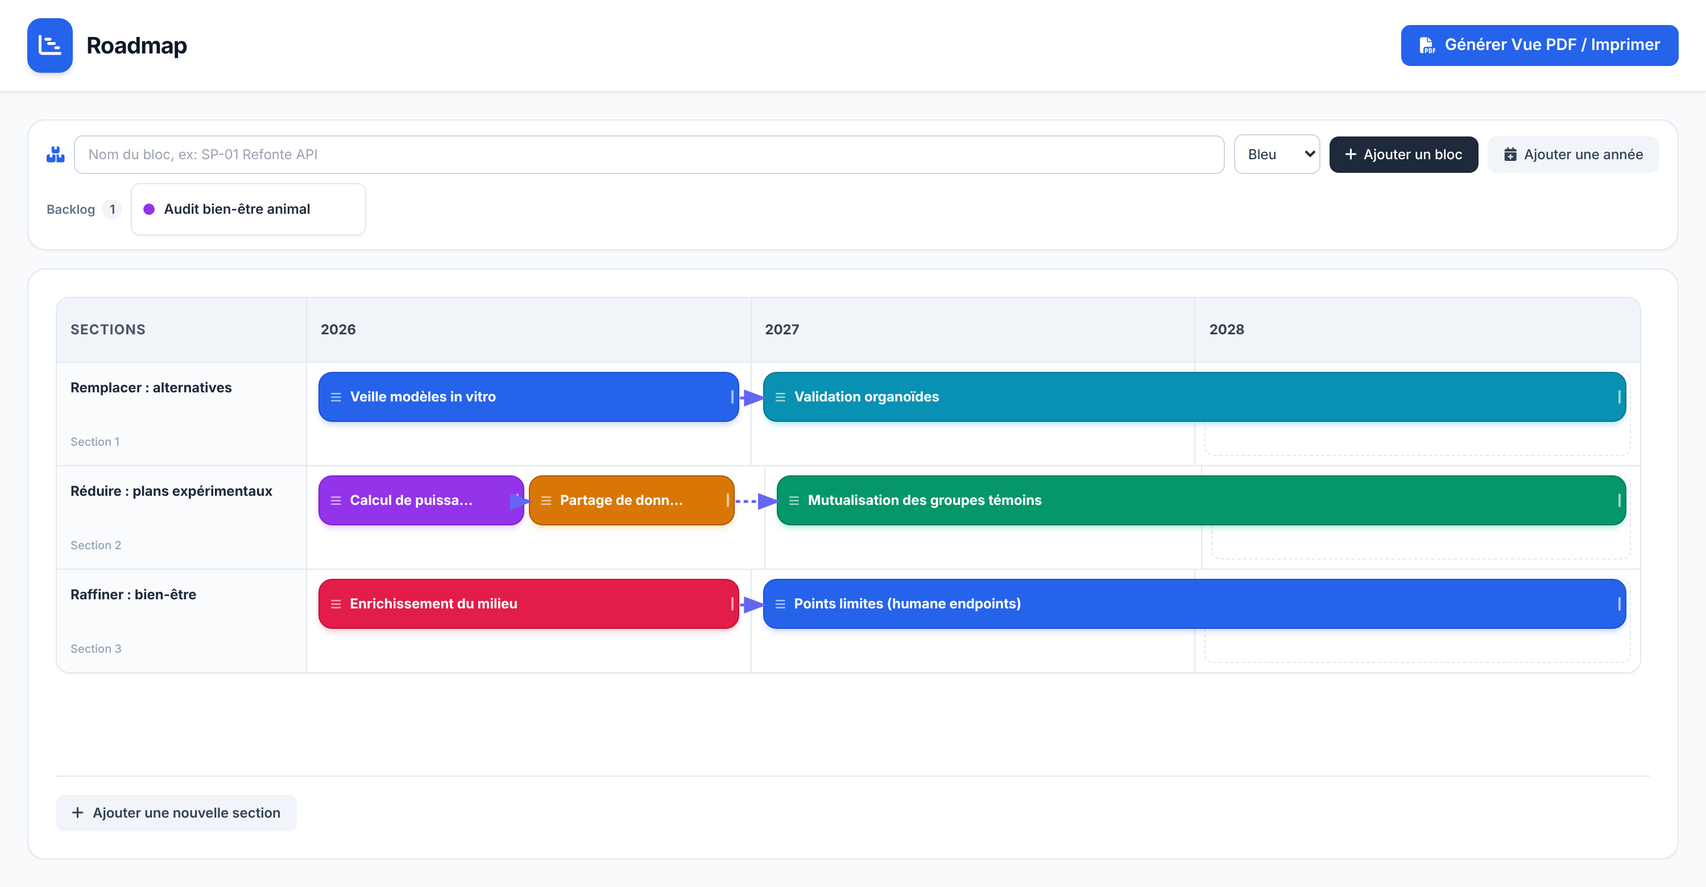
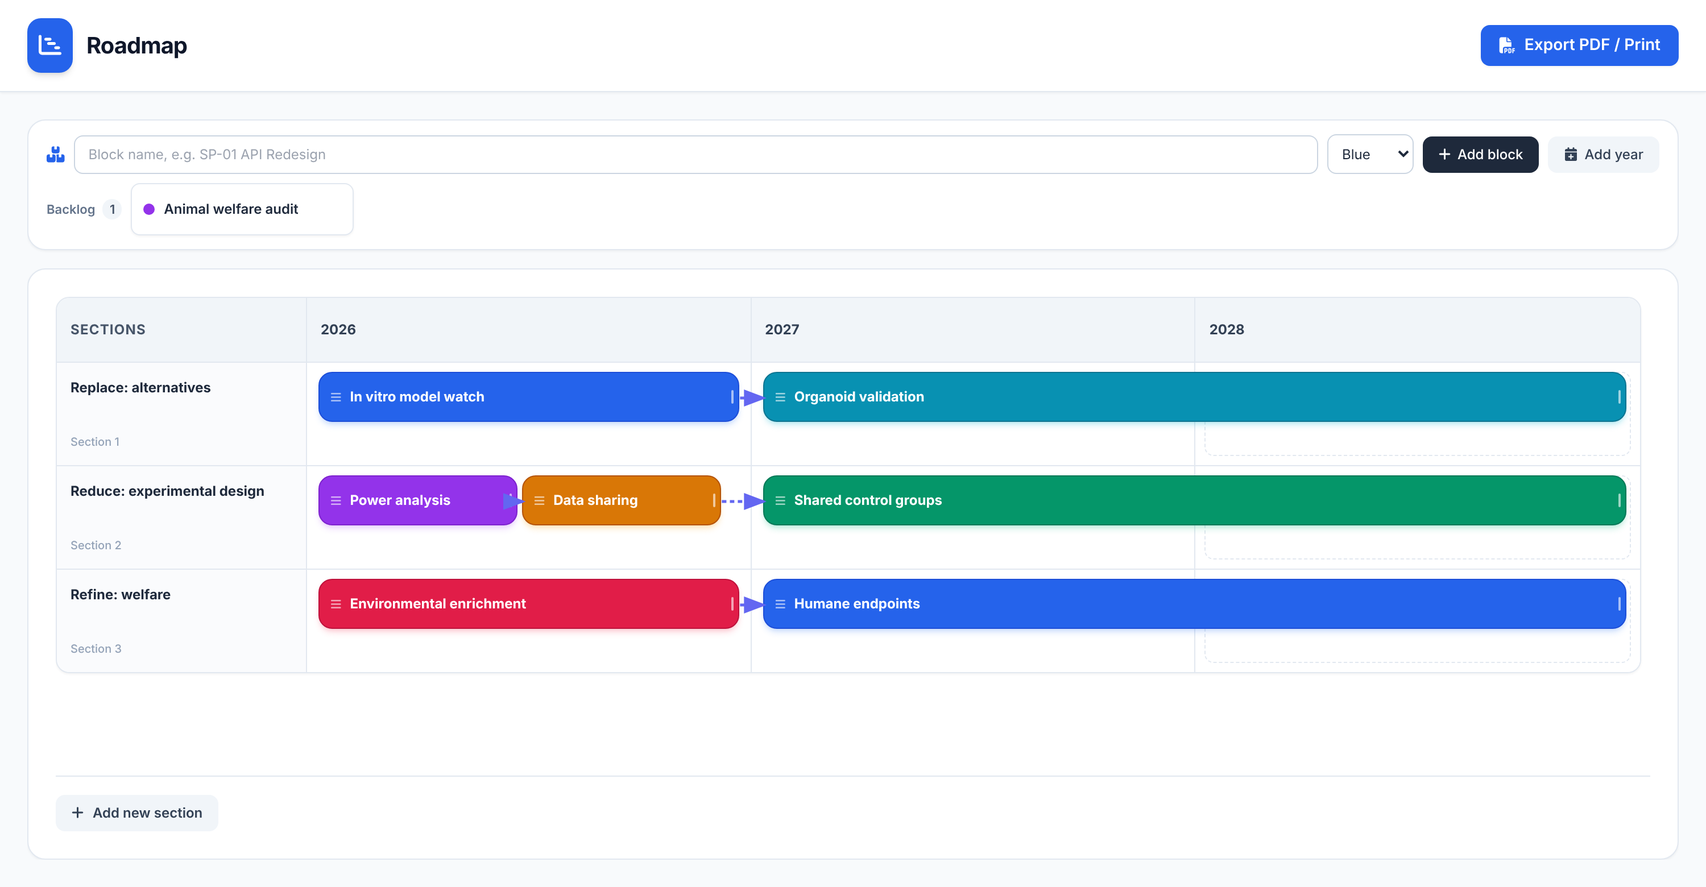
Translate UI, README and screenshot to English
Claude-Session: https://claude.ai/code/session_01T9Qhdv6o8uipiHCkkjMUxb

diff --git a/index.html b/index.html
@@ -1,9 +1,9 @@
 <!DOCTYPE html>
-<html lang="fr" class="h-full">
+<html lang="en" class="h-full">
 <head>
     <meta charset="UTF-8">
     <meta name="viewport" content="width=device-width, initial-scale=1.0">
-    <title>Roadmap - Gantt Simplifié</title>
+    <title>Roadmap - Simplified Gantt</title>
     <script src="https://cdn.tailwindcss.com"></script>
     <link href="https://fonts.googleapis.com/css2?family=Inter:wght@300;400;500;600;700&display=swap" rel="stylesheet">
     <link rel="stylesheet" href="https://cdnjs.cloudflare.com/ajax/libs/font-awesome/6.4.0/css/all.min.css">
@@ -95,7 +95,7 @@
         <div class="flex items-center space-x-3">
             <button onclick="triggerPrint()" class="px-4 py-2 bg-blue-600 hover:bg-blue-700 text-white text-sm font-semibold rounded-lg shadow-sm transition flex items-center space-x-2">
                 <i class="fa-solid fa-file-pdf"></i>
-                <span>Générer Vue PDF / Imprimer</span>
+                <span>Export PDF / Print</span>
             </button>
         </div>
     </header>
@@ -105,7 +105,7 @@
         <!-- Notification Toast -->
         <div id="toast" class="fixed bottom-5 right-5 z-50 bg-slate-900 text-white px-4 py-3 rounded-xl shadow-xl flex items-center space-x-3 transform translate-y-20 opacity-0 transition-all duration-300">
             <i id="toast-icon" class="fa-solid fa-circle-check text-emerald-400 text-lg"></i>
-            <span id="toast-message" class="text-sm font-medium">Action réussie</span>
+            <span id="toast-message" class="text-sm font-medium">Done</span>
         </div>
 
         <div class="flex flex-col gap-4 flex-1 overflow-hidden">
@@ -113,22 +113,22 @@
             <div class="bg-white rounded-2xl border border-slate-200 px-4 py-3 no-print shadow-sm space-y-2">
                 <form id="addSubprojectForm" onsubmit="handleAddSubproject(event)" class="flex flex-wrap items-center gap-2">
                     <i class="fa-solid fa-boxes-stacked text-blue-600 text-sm"></i>
-                    <input type="text" id="spName" placeholder="Nom du bloc, ex: SP-01 Refonte API" required class="flex-1 min-w-[200px] text-xs px-3 py-2 bg-white border border-slate-300 rounded-lg focus:outline-none focus:ring-2 focus:ring-blue-500">
+                    <input type="text" id="spName" placeholder="Block name, e.g. SP-01 API Redesign" required class="flex-1 min-w-[200px] text-xs px-3 py-2 bg-white border border-slate-300 rounded-lg focus:outline-none focus:ring-2 focus:ring-blue-500">
                     <select id="spColor" class="text-xs px-2 py-2 bg-white border border-slate-300 rounded-lg focus:outline-none focus:ring-2 focus:ring-blue-500">
-                        <option value="blue">Bleu</option>
-                        <option value="emerald">Vert</option>
-                        <option value="amber">Ambre</option>
-                        <option value="purple">Violet</option>
-                        <option value="rose">Rose</option>
+                        <option value="blue">Blue</option>
+                        <option value="emerald">Green</option>
+                        <option value="amber">Amber</option>
+                        <option value="purple">Purple</option>
+                        <option value="rose">Pink</option>
                         <option value="cyan">Cyan</option>
                     </select>
                     <button type="submit" class="bg-slate-800 hover:bg-slate-900 text-white font-medium text-xs px-3.5 py-2 rounded-lg transition flex items-center space-x-1.5">
                         <i class="fa-solid fa-plus"></i>
-                        <span>Ajouter un bloc</span>
+                        <span>Add block</span>
                     </button>
                     <button type="button" onclick="addYearColumn()" class="px-3.5 py-2 bg-slate-100 hover:bg-slate-200 text-slate-700 text-xs font-medium rounded-lg transition flex items-center space-x-1.5">
                         <i class="fa-solid fa-calendar-plus"></i>
-                        <span>Ajouter une année</span>
+                        <span>Add year</span>
                     </button>
                 </form>
 
@@ -150,7 +150,7 @@
                 <div class="pt-4 mt-4 border-t border-slate-200 flex items-center justify-between no-print relative z-30">
                     <button onclick="addSection()" class="px-3.5 py-2 bg-slate-100 hover:bg-slate-200 text-slate-700 text-xs font-semibold rounded-lg transition flex items-center space-x-2">
                         <i class="fa-solid fa-plus"></i>
-                        <span>Ajouter une nouvelle section</span>
+                        <span>Add new section</span>
                     </button>
                 </div>
 
@@ -164,18 +164,18 @@
         let appData = {
             years: [currentYearNum, currentYearNum + 1, currentYearNum + 2],
             sections: [
-                { id: 'sec-1', name: 'Phase 1 : Cadrage & Architecture' },
-                { id: 'sec-2', name: 'Phase 2 : Core Development & API' },
-                { id: 'sec-3', name: 'Phase 3 : Déploiement & Run' }
+                { id: 'sec-1', name: 'Phase 1: Scoping & Architecture' },
+                { id: 'sec-2', name: 'Phase 2: Core Development & API' },
+                { id: 'sec-3', name: 'Phase 3: Deployment & Run' }
             ],
             subprojects: [
-                { id: 'sp-1', name: 'SP-01 Audit & Cadrage', widthPct: 50, color: 'blue', assignedTo: { yearIdx: 0, sectionId: 'sec-1', subRow: 0 } },
-                { id: 'sp-2', name: 'SP-02 Specs Techniques', widthPct: 50, color: 'amber', assignedTo: { yearIdx: 0, sectionId: 'sec-1', subRow: 1 } },
-                { id: 'sp-3', name: 'SP-03 Développement Socle V1', widthPct: 50, color: 'purple', assignedTo: { yearIdx: 1, sectionId: 'sec-2', subRow: 0 } },
-                { id: 'sp-4', name: 'SP-04 Tests & QA Intégration', widthPct: 50, color: 'emerald', assignedTo: { yearIdx: 2, sectionId: 'sec-2', subRow: 0 } },
+                { id: 'sp-1', name: 'SP-01 Audit & Scoping', widthPct: 50, color: 'blue', assignedTo: { yearIdx: 0, sectionId: 'sec-1', subRow: 0 } },
+                { id: 'sp-2', name: 'SP-02 Technical Specs', widthPct: 50, color: 'amber', assignedTo: { yearIdx: 0, sectionId: 'sec-1', subRow: 1 } },
+                { id: 'sp-3', name: 'SP-03 Core Development V1', widthPct: 50, color: 'purple', assignedTo: { yearIdx: 1, sectionId: 'sec-2', subRow: 0 } },
+                { id: 'sp-4', name: 'SP-04 Integration Tests & QA', widthPct: 50, color: 'emerald', assignedTo: { yearIdx: 2, sectionId: 'sec-2', subRow: 0 } },
                 { id: 'sp-5', name: 'SP-05 Migration & Rollout', widthPct: 50, color: 'rose', assignedTo: { yearIdx: 2, sectionId: 'sec-3', subRow: 0 } },
-                { id: 'sp-6', name: 'SP-06 Support & Stabilisation', widthPct: 50, color: 'cyan', assignedTo: { yearIdx: 2, sectionId: 'sec-3', subRow: 1 } },
-                { id: 'sp-7', name: 'SP-07 Analyse ROI Final', widthPct: 50, color: 'blue', assignedTo: null }
+                { id: 'sp-6', name: 'SP-06 Support & Stabilization', widthPct: 50, color: 'cyan', assignedTo: { yearIdx: 2, sectionId: 'sec-3', subRow: 1 } },
+                { id: 'sp-7', name: 'SP-07 Final ROI Analysis', widthPct: 50, color: 'blue', assignedTo: null }
             ],
             dependencies: [
                 { from: 'sp-1', to: 'sp-3' },
@@ -222,7 +222,7 @@
 
             if (unassigned.length === 0) {
                 container.innerHTML = `
-                    <span class="text-slate-400 text-xs italic">Tous les blocs sont placés. Glissez un bloc ici pour le désassigner.</span>
+                    <span class="text-slate-400 text-xs italic">All blocks are placed. Drag a block here to unassign it.</span>
                 `;
                 return;
             }
@@ -238,7 +238,7 @@
                             <span class="text-xs font-semibold text-slate-800 truncate">${sp.name}</span>
                         </div>
                         <div class="flex items-center space-x-1 opacity-0 group-hover:opacity-100 transition">
-                            <button onclick="deleteSubProject(event, '${sp.id}')" class="text-slate-400 hover:text-rose-600 p-1" title="Supprimer">
+                            <button onclick="deleteSubProject(event, '${sp.id}')" class="text-slate-400 hover:text-rose-600 p-1" title="Delete">
                                 <i class="fa-solid fa-trash-can text-xs"></i>
                             </button>
                             <i class="fa-solid fa-grip-vertical text-slate-300 text-xs cursor-grab"></i>
@@ -267,7 +267,7 @@
                 html += `
                     <div class="p-3 text-center border-r border-slate-200 last:border-r-0 flex items-center justify-between group/yr">
                         <span class="text-xs font-bold text-slate-700">${yr}</span>
-                        <button onclick="removeYear(${yIdx})" class="text-slate-400 hover:text-rose-600 opacity-0 group-hover/yr:opacity-100 transition p-1 no-print" title="Supprimer cette année">
+                        <button onclick="removeYear(${yIdx})" class="text-slate-400 hover:text-rose-600 opacity-0 group-hover/yr:opacity-100 transition p-1 no-print" title="Delete this year">
                             <i class="fa-solid fa-xmark text-xs"></i>
                         </button>
                     </div>
@@ -282,7 +282,7 @@
                             <input type="text" value="${sec.name}" onchange="updateSectionName('${sec.id}', this.value)" class="text-xs font-bold text-slate-800 bg-transparent border-b border-transparent hover:border-slate-300 focus:border-blue-500 focus:outline-none py-0.5">
                             <div class="flex items-center justify-between mt-2">
                                 <span class="text-[10px] text-slate-400 font-medium">Section ${sIdx + 1}</span>
-                                <button onclick="removeSection('${sec.id}')" class="text-slate-400 hover:text-rose-600 opacity-0 group-hover/sec:opacity-100 transition text-xs no-print" title="Supprimer la section">
+                                <button onclick="removeSection('${sec.id}')" class="text-slate-400 hover:text-rose-600 opacity-0 group-hover/sec:opacity-100 transition text-xs no-print" title="Delete this section">
                                     <i class="fa-solid fa-trash-can"></i>
                                 </button>
                             </div>
@@ -307,7 +307,7 @@
                     if (rows.length === 0) {
                         html += `
                             <div class="flex-1 flex items-center justify-center border border-dashed border-slate-200 rounded-lg text-slate-300 text-[11px] select-none pointer-events-none">
-                                Glisser ici
+                                Drop here
                             </div>
                         `;
                     } else {
@@ -327,28 +327,28 @@
                                     </div>
 
                                     <div class="absolute left-0 top-full pt-1 flex items-center gap-1.5 opacity-0 group-hover:opacity-100 transition no-print z-30">
-                                        <button onclick="unassignSubProject('${sp.id}')" class="h-8 px-2.5 bg-white text-slate-700 hover:bg-slate-100 border border-slate-300 rounded-lg shadow-md text-xs font-semibold flex items-center gap-1.5 whitespace-nowrap" title="Remettre au backlog">
+                                        <button onclick="unassignSubProject('${sp.id}')" class="h-8 px-2.5 bg-white text-slate-700 hover:bg-slate-100 border border-slate-300 rounded-lg shadow-md text-xs font-semibold flex items-center gap-1.5 whitespace-nowrap" title="Move back to backlog">
                                             <i class="fa-solid fa-arrow-rotate-left"></i><span>Backlog</span>
                                         </button>
-                                        <button onclick="deleteSubProject(event, '${sp.id}')" class="h-8 px-2.5 bg-white text-rose-600 hover:bg-rose-50 border border-rose-300 rounded-lg shadow-md text-xs font-semibold flex items-center gap-1.5 whitespace-nowrap" title="Supprimer">
-                                            <i class="fa-solid fa-trash-can"></i><span>Supprimer</span>
+                                        <button onclick="deleteSubProject(event, '${sp.id}')" class="h-8 px-2.5 bg-white text-rose-600 hover:bg-rose-50 border border-rose-300 rounded-lg shadow-md text-xs font-semibold flex items-center gap-1.5 whitespace-nowrap" title="Delete">
+                                            <i class="fa-solid fa-trash-can"></i><span>Delete</span>
                                         </button>
                                     </div>
 
                                     <div class="absolute right-0 top-0 bottom-0 w-2.5 cursor-ew-resize hover:bg-white/30 rounded-r-xl flex items-center justify-center no-print"
-                                         onmousedown="initResize(event, '${sp.id}')" title="Glisser pour étirer">
+                                         onmousedown="initResize(event, '${sp.id}')" title="Drag to resize">
                                         <div class="w-0.5 h-3 bg-white/60 rounded-full"></div>
                                     </div>
 
                                     <div class="absolute -right-3.5 top-1/2 transform -translate-y-1/2 w-4 h-4 bg-indigo-500 border-2 border-white rounded-full cursor-crosshair opacity-0 group-hover:opacity-100 transition shadow no-print"
-                                         onmousedown="startConnection(event, '${sp.id}')" title="Glisser pour relier à un autre bloc"></div>
+                                         onmousedown="startConnection(event, '${sp.id}')" title="Drag to link to another block"></div>
                                 </div>
                                 `;
                             });
                             html += `</div>`;
                         });
                         // zone fine pour créer une nouvelle ligne sous les blocs existants
-                        html += `<div class="new-row-zone no-print" title="Déposer ici pour une nouvelle ligne" ondragover="allowDrop(event)" ondragleave="removeDragOver(event)" ondrop="dropToCell(event, ${yIdx}, '${sec.id}', -1)"></div>`;
+                        html += `<div class="new-row-zone no-print" title="Drop here for a new row" ondragover="allowDrop(event)" ondragleave="removeDragOver(event)" ondrop="dropToCell(event, ${yIdx}, '${sec.id}', -1)"></div>`;
                     }
 
                     html += `</div>`;
@@ -393,7 +393,7 @@
                         const exists = appData.dependencies.some(d => d.from === tempConnection.fromId && d.to === toId);
                         if (!exists) {
                             appData.dependencies.push({ from: tempConnection.fromId, to: toId });
-                            showToast('Liaison créée avec succès');
+                            showToast('Link created');
                             renderApp();
                         }
                     }
@@ -446,7 +446,7 @@
 
                     svgContent += `
                         <g class="arrow-group" onclick="removeDependency(${idx})">
-                            <title>Cliquer pour supprimer cette liaison</title>
+                            <title>Click to delete this link</title>
                             <path d="${pathD}" fill="none" stroke="transparent" stroke-width="16" style="pointer-events: stroke;" />
                             <path d="${pathD}" fill="none" stroke="#6366f1" stroke-width="2.5" stroke-dasharray="4,3" marker-end="url(#arrowhead)" class="arrow-line" style="pointer-events: none;" />
                             <g class="arrow-del" transform="translate(${midX}, ${midY})">
@@ -534,7 +534,7 @@
             sp.assignedTo = { yearIdx, sectionId, subRow: row, order };
             normalizeRows();
             renderApp();
-            showToast(`Bloc "${sp.name}" placé`);
+            showToast(`Block "${sp.name}" placed`);
             draggedSubProjectId = null;
         }
 
@@ -568,7 +568,7 @@
             if (sp) {
                 sp.assignedTo = null;
                 renderApp();
-                showToast(`Bloc "${sp.name}" remis au backlog`);
+                showToast(`Block "${sp.name}" moved back to backlog`);
             }
             draggedSubProjectId = null;
         }
@@ -579,7 +579,7 @@
                 sp.assignedTo = null;
                 normalizeRows();
                 renderApp();
-                showToast('Bloc désassigné');
+                showToast('Block unassigned');
             }
         }
 
@@ -646,7 +646,7 @@
 
             nameInput.value = '';
             renderApp();
-            showToast('Nouveau bloc créé dans le backlog');
+            showToast('New block added to the backlog');
         }
 
         function deleteSubProject(e, spId) {
@@ -655,33 +655,33 @@
             appData.dependencies = appData.dependencies.filter(d => d.from !== spId && d.to !== spId);
             normalizeRows();
             renderApp();
-            showToast('Bloc supprimé');
+            showToast('Block deleted');
         }
 
         function removeDependency(idx) {
             appData.dependencies.splice(idx, 1);
             renderApp();
-            showToast('Liaison supprimée');
+            showToast('Link deleted');
         }
 
         function updateSectionName(secId, newName) {
             const sec = appData.sections.find(s => s.id === secId);
             if (sec && newName.trim()) {
                 sec.name = newName.trim();
-                showToast('Nom de section mis à jour');
+                showToast('Section name updated');
             }
         }
 
         function addSection() {
             const newId = 'sec-' + Date.now();
-            appData.sections.push({ id: newId, name: 'Nouvelle Section' });
+            appData.sections.push({ id: newId, name: 'New Section' });
             renderApp();
-            showToast('Nouvelle section ajoutée');
+            showToast('New section added');
         }
 
         function removeSection(secId) {
             if (appData.sections.length <= 1) {
-                showToast('Il faut conserver au moins une section', 'error');
+                showToast('At least one section is required', 'error');
                 return;
             }
             appData.sections = appData.sections.filter(s => s.id !== secId);
@@ -689,19 +689,19 @@
                 if (sp.assignedTo && sp.assignedTo.sectionId === secId) sp.assignedTo = null;
             });
             renderApp();
-            showToast('Section supprimée');
+            showToast('Section deleted');
         }
 
         function addYearColumn() {
             const lastYear = appData.years.length > 0 ? appData.years[appData.years.length - 1] : currentYearNum;
             appData.years.push(lastYear + 1);
             renderApp();
-            showToast('Année ajoutée');
+            showToast('Year added');
         }
 
         function removeYear(yIdx) {
             if (appData.years.length <= 1) {
-                showToast('Il faut conserver au moins une année', 'error');
+                showToast('At least one year is required', 'error');
                 return;
             }
             appData.years.splice(yIdx, 1);
@@ -712,7 +712,7 @@
                 }
             });
             renderApp();
-            showToast('Année supprimée');
+            showToast('Year deleted');
         }
 
         function buildPrintHtml() {
@@ -732,7 +732,7 @@
             clone.style.cssText = 'width:' + w + 'px;border:none;box-shadow:none;position:relative;overflow:visible;';
             const m = clone.querySelector('#gantt-matrix');
             if (m) m.style.overflow = 'visible';
-            return `<!DOCTYPE html><html lang="fr"><head><meta charset="UTF-8"><title>Roadmap</title>
+            return `<!DOCTYPE html><html lang="en"><head><meta charset="UTF-8"><title>Roadmap</title>
 <script src="https://cdn.tailwindcss.com"><\/script>
 <link href="https://fonts.googleapis.com/css2?family=Inter:wght@400;600;700&display=swap" rel="stylesheet">
 <link rel="stylesheet" href="https://cdnjs.cloudflare.com/ajax/libs/font-awesome/6.4.0/css/all.min.css">
@@ -761,13 +761,13 @@ body{font-family:'Inter',sans-serif;background:#fff;margin:0;padding:12px;-webki
             if (!win) {
                 const a = document.createElement('a');
                 a.href = url;
-                a.download = 'roadmap-imprimable.html';
+                a.download = 'roadmap-printable.html';
                 document.body.appendChild(a);
                 a.click();
                 a.remove();
-                showToast("Pop-up bloqué : fichier téléchargé, ouvrez-le puis Ctrl/Cmd+P", 'error');
+                showToast("Pop-up blocked: file downloaded, open it then press Ctrl/Cmd+P", 'error');
             } else {
-                showToast("Page d'impression ouverte dans un nouvel onglet");
+                showToast("Print page opened in a new tab");
             }
         }
 

diff --git a/README.md b/README.md
@@ -1,37 +1,37 @@
 # QuatR
 
-**Une roadmap Gantt simplifiée, pensée pour planifier des projets d'expérimentation animale autour des 3R : Remplacer, Réduire, Raffiner.**
+**A simplified Gantt roadmap for planning animal experimentation projects around the 3Rs: Replace, Reduce, Refine.**
 
-Un seul fichier HTML, sans installation, sans serveur, sans compte. On l'ouvre dans un navigateur et on construit sa roadmap par glisser-déposer.
+A single HTML file: no install, no server, no account. Open it in a browser and build your roadmap by drag and drop.
 
-**[Essayer en ligne](https://benjaws.github.io/quatr/)**
+**[Try it online](https://benjaws.github.io/quatr/)**
 
-![Aperçu de QuatR](docs/screenshot.png)
+![QuatR preview](docs/screenshot.png)
 
-## Fonctionnalités
+## Features
 
-- **Blocs par glisser-déposer** : créez un bloc, puis déposez-le dans la section et l'année voulues.
-- **Backlog** : les blocs pas encore planifiés attendent sous la barre de création. Glissez-les vers le Gantt, ou remettez-les au backlog.
-- **Blocs côte à côte** : plusieurs blocs peuvent partager la même ligne dans une année.
-- **Durée de 1 à 3 ans** : étirez un bloc par sa poignée de droite. Il se cale sur 1, 2 ou 3 ans.
-- **Flèches de dépendance** : tirez depuis le point violet d'un bloc jusqu'à un autre. Cliquez sur une flèche pour la supprimer.
-- **Sections et années modifiables** : renommez les sections, ajoutez ou retirez des sections et des années.
-- **Export PDF / impression** : mise en page paysage prête à imprimer. Dans un aperçu intégré, une page imprimable s'ouvre dans un nouvel onglet.
+- **Drag-and-drop blocks**: create a block, then drop it into the section and year you want.
+- **Backlog**: blocks not yet scheduled wait under the creation bar. Drag them onto the Gantt, or send them back to the backlog.
+- **Side-by-side blocks**: several blocks can share the same row within a year.
+- **1 to 3 years long**: stretch a block with its right-hand handle. It snaps to 1, 2 or 3 years.
+- **Dependency arrows**: drag from a block's purple dot to another block. Click an arrow to delete it.
+- **Editable sections and years**: rename sections, add or remove sections and years.
+- **PDF export / print**: landscape layout ready to print. In an embedded preview, a printable page opens in a new tab.
 
-## Utilisation
+## Usage
 
-1. Ouvrez `index.html` dans votre navigateur (Chrome, Edge, Firefox, Safari).
-2. Saisissez un nom, choisissez une couleur, cliquez sur **Ajouter un bloc**.
-3. Glissez le bloc dans le Gantt.
-4. Étirez-le, reliez-le aux autres, puis cliquez sur **Générer Vue PDF / Imprimer**.
+1. Open `index.html` in your browser (Chrome, Edge, Firefox, Safari).
+2. Type a name, pick a color, click **Add block**.
+3. Drag the block onto the Gantt.
+4. Stretch it, link it to other blocks, then click **Export PDF / Print**.
 
-Une connexion internet est nécessaire au chargement : Tailwind CSS, Font Awesome et la police Inter sont chargés depuis des CDN.
+An internet connection is required on load: Tailwind CSS, Font Awesome and the Inter font are loaded from CDNs.
 
-## Limites actuelles
+## Current limitations
 
-- Les données ne sont pas sauvegardées : rechargez la page et la roadmap revient à l'exemple de départ.
-- Pas d'export des données (JSON) pour l'instant.
+- Data is not saved: reload the page and the roadmap goes back to the starting example.
+- No data export (JSON) yet.
 
-## Licence
+## License
 
 [MIT](LICENSE)
